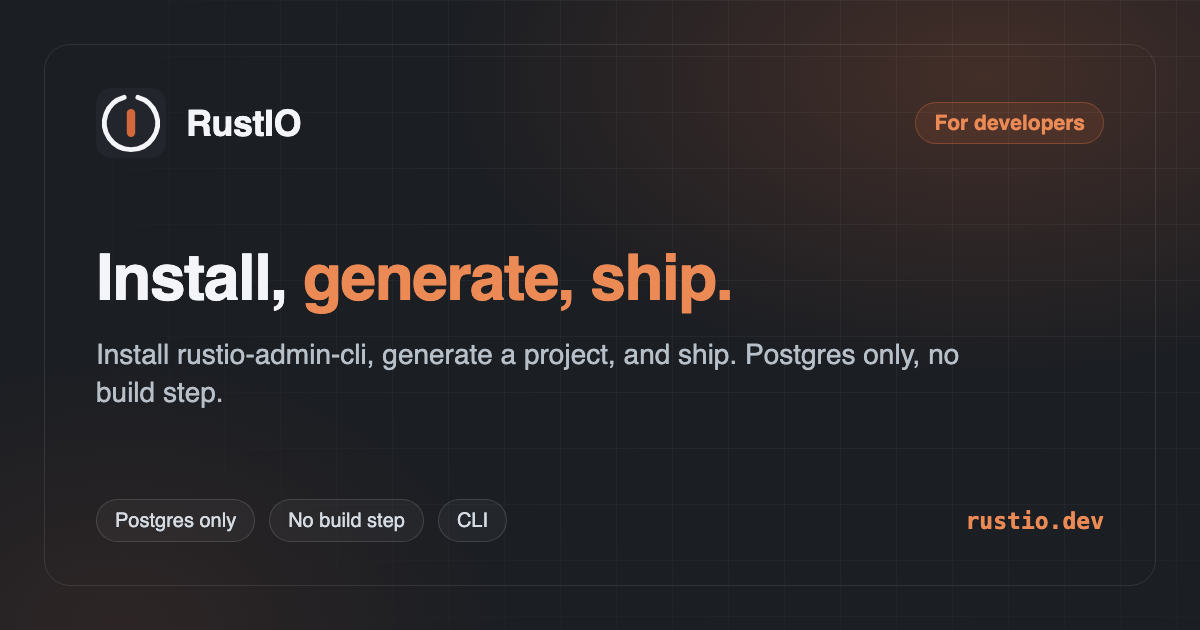
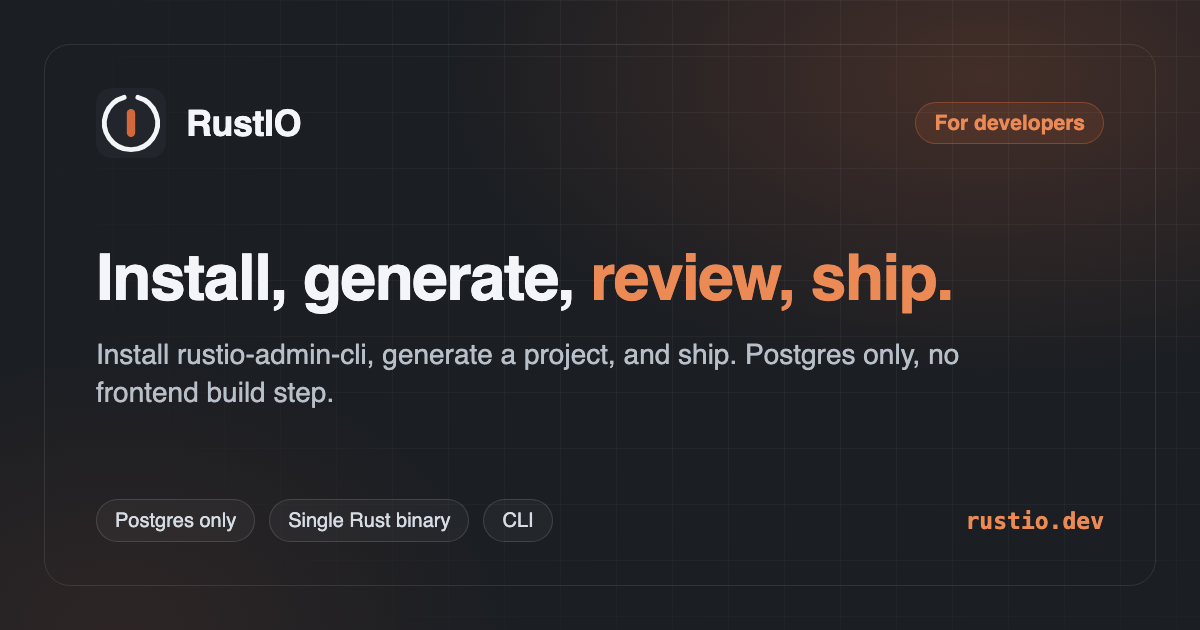
copy: "review" in the ship sequence + clearer build-step wording
- Install, generate, ship → Install, generate, review, ship (docs h1, dev
  heading, docs OG card + alt)
- "No build step" → "Single Rust binary" (chips/pills) / "No frontend build
  step" (prose), avoiding the "No build step. Single binary." redundancy
- Regenerate docs OG cards (dark + light) to match

Verified: GitHub/docs.rs/releases/sponsors/draft links 200; crates.io
rustio-admin published at 0.31.0 (API); sitemap/robots/metadata/OG all present.

Changed region(s): [[0.2467, 0.3921, 0.8017, 0.5127], [0.0617, 0.6032, 0.2775, 0.6635], [0.2467, 0.8143, 0.4625, 0.8444]]

diff --git a/app/docs/page.tsx b/app/docs/page.tsx
@@ -5,9 +5,9 @@ import { Developers } from "@/components/Sections";
 export const metadata: Metadata = {
   title: "Docs & links",
   description:
-    "Install rustio-admin-cli, generate a project, and ship. Postgres only, no build step. Links to the GitHub repo, crates.io, docs.rs, releases, and examples.",
+    "Install rustio-admin-cli, generate a project, and ship. Postgres only, no frontend build step. Links to the GitHub repo, crates.io, docs.rs, releases, and examples.",
   alternates: { canonical: "/docs/" },
-  ...ogMeta("docs", "RustIO docs — install, generate, ship"),
+  ...ogMeta("docs", "RustIO docs — install, generate, review, ship"),
 };
 
 export default function DocsPage() {
@@ -16,10 +16,10 @@ export default function DocsPage() {
       <section className="page-intro">
         <div className="wrap">
           <span className="eyebrow">For developers</span>
-          <h1>Install, generate, ship.</h1>
+          <h1>Install, generate, review, ship.</h1>
           <p className="lead">
             The full reference lives on GitHub, crates.io, and docs.rs. Below are the commands to get
-            running and the key links. Postgres only. No build step. Single binary.
+            running and the key links. Postgres only. No frontend build step. Single binary.
           </p>
         </div>
       </section>

diff --git a/components/Sections.tsx b/components/Sections.tsx
@@ -44,7 +44,7 @@ export function Hero() {
           <span className="crate-chip"><b>rustio-admin</b> {SITE.version}</span>
           <span className="crate-chip"><b>rustio-admin-cli</b> binary</span>
           <span className="crate-chip">MIT licensed</span>
-          <span className="crate-chip">No build step</span>
+          <span className="crate-chip">Single Rust binary</span>
         </div>
       </div>
     </header>
@@ -332,7 +332,7 @@ export function Developers() {
       <div className="wrap">
         <div className="sec-head">
           <span className="eyebrow">For developers</span>
-          <h2>Install, generate, ship. Postgres only. No build step.</h2>
+          <h2>Install, generate, review, ship. Postgres only. No frontend build step.</h2>
         </div>
         <div className="dev-grid">
           <div className="dev-card">